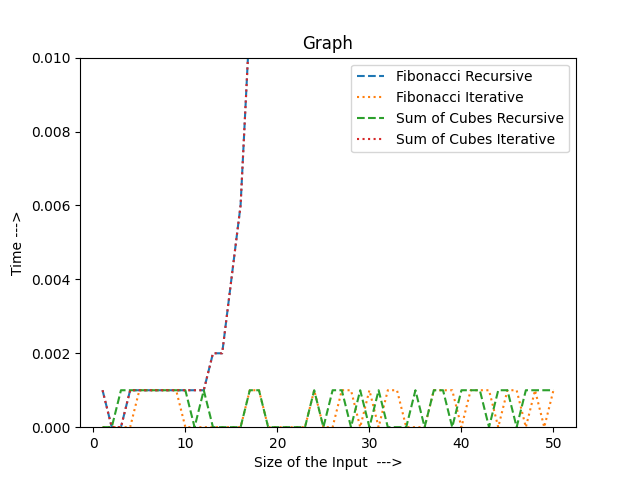
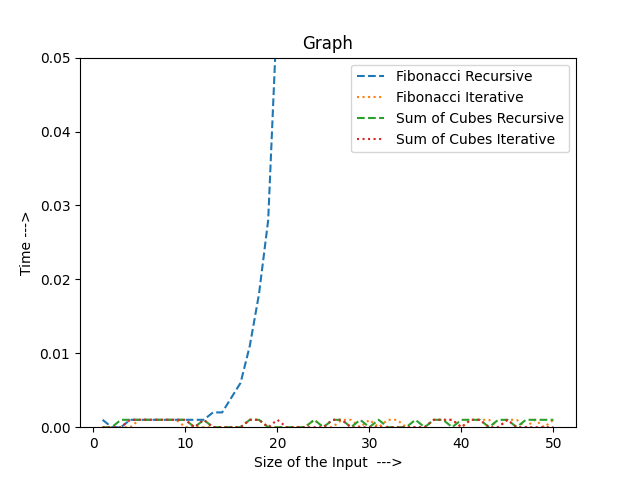
final chnages

diff --git a/Outside-Practise/Assignment /C/main.c b/Outside-Practise/Assignment /C/main.c
@@ -1,13 +1,13 @@
 #include <stdio.h>
 #include <time.h>
 
-// Recursive Fibonacci
+
 int fib_recursive(int n) {
     if (n <= 1) return n;
     return fib_recursive(n - 1) + fib_recursive(n - 2);
 }
 
-// Iterative Fibonacci
+
 int fib_iterative(int n) {
     int a = 0, b = 1, c, i;
     if (n == 0) return a;
@@ -19,13 +19,13 @@ int fib_iterative(int n) {
     return b;
 }
 
-// Recursive Sum of Cubes
+
 int sum_of_cubes_recursive(int n) {
     if (n <= 0) return 0;
     return n*n*n + sum_of_cubes_recursive(n - 1);
 }
 
-// Iterative Sum of Cubes
+
 int sum_of_cubes_iterative(int n) {
     return n * n * (n + 1) * (n + 1) / 4;
 }
@@ -36,36 +36,36 @@ int main() {
     int n, result;
     FILE *outputFile;
 
-    // Open the file for writing
+    
     outputFile = fopen("data.txt", "w");
     if (outputFile == NULL) {
-        printf("Error opening file!\n");
+        printf("Error file is not opening!\n");
         return 1;
     }
 
     for (n = 1; n <= 50; n++) {
-        // Measure Recursive Fibonacci
+        
         start = clock();
         result = fib_recursive(n);
         end = clock();
         cpu_time_used = ((double) (end - start)) / CLOCKS_PER_SEC;
         fprintf(outputFile, "%d, %f, ", n, cpu_time_used * 1000);
 
-        // Measure Iterative Fibonacci
+        
         start = clock();
         result = fib_iterative(n);
         end = clock();
         cpu_time_used = ((double) (end - start)) / CLOCKS_PER_SEC;
         fprintf(outputFile, "%f, ", cpu_time_used * 1000);
 
-        // Measure Recursive Sum of Cubes
+        
         start = clock();
         result = sum_of_cubes_recursive(n);
         end = clock();
         cpu_time_used = ((double) (end - start)) / CLOCKS_PER_SEC;
         fprintf(outputFile, "%f, ", cpu_time_used * 1000);
 
-        // Measure Iterative Sum of Cubes
+        
         start = clock();
         result = sum_of_cubes_iterative(n);
         end = clock();
@@ -73,7 +73,7 @@ int main() {
         fprintf(outputFile, "%f\n", cpu_time_used * 1000);
     }
 
-    // Close the file
+    
     fclose(outputFile);
 
     return 0;

diff --git a/Outside-Practise/Assignment /C/graph.py b/Outside-Practise/Assignment /C/graph.py
@@ -10,17 +10,13 @@ iteCube = []
 with open('data.txt','r') as f:
     for i in f:
         timeData = i.strip().split(',')
-
-        if len(timeData) != 5:
-            continue
-
         inputs , fibrecValue , fibiterValue , sumrecValue , sumiterValue = map(float , timeData)
 
         inputSize.append(inputs)
         recFab.append(fibrecValue )
         iteFab.append(fibiterValue)
         recCube.append(sumrecValue)
-        iteCube.append(fibrecValue)
+        iteCube.append(sumiterValue)
 
 plt.plot(inputSize,recFab, label = 'Fibonacci Recursive'  , linestyle='--')
 plt.plot(inputSize,iteFab, label = 'Fibonacci Iterative' ,  linestyle=':')
@@ -29,7 +25,7 @@ plt.plot(inputSize,iteCube, label = 'Sum of Cubes Iterative'  , linestyle=':')
         
 plt.xlabel('Size of the Input  --->')
 plt.ylabel('Time --->')
-plt.ylim(0,0.01)
+plt.ylim(0,0.05)
 plt.title('Graph')
 plt.legend()
 plt.savefig("graph.png")
